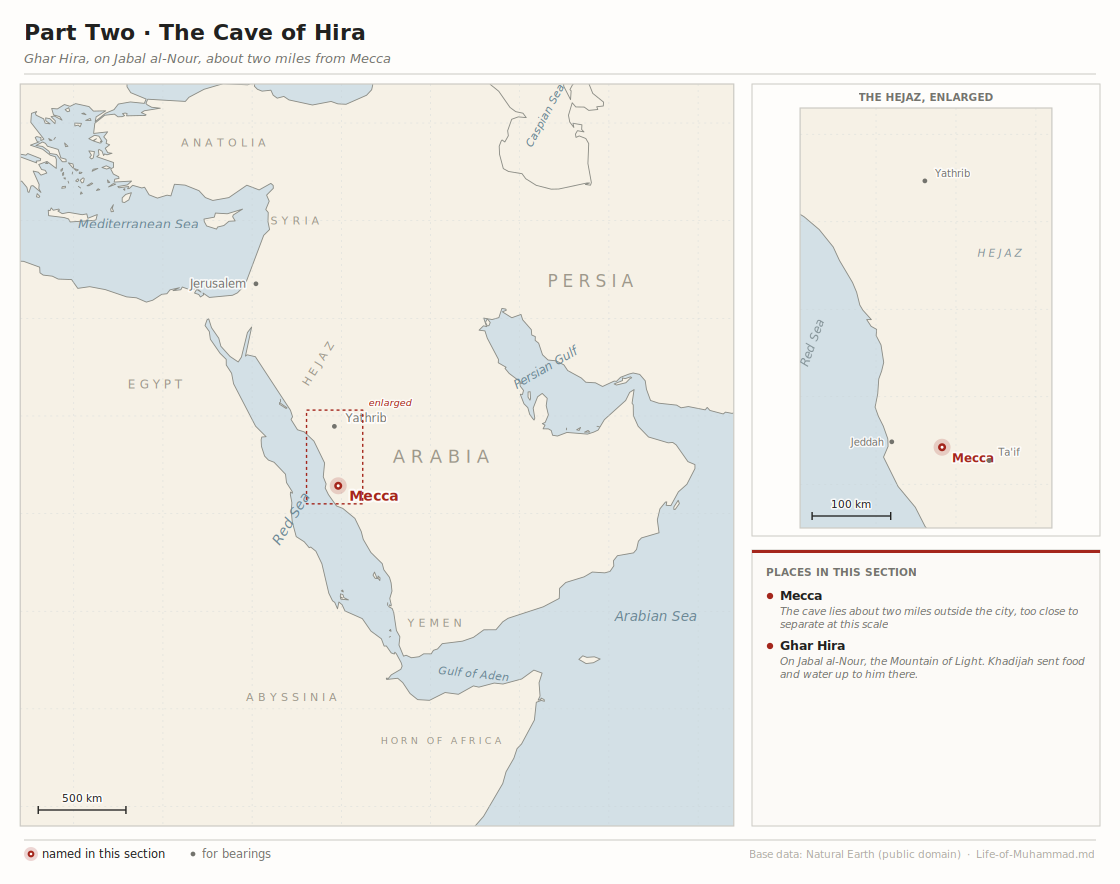
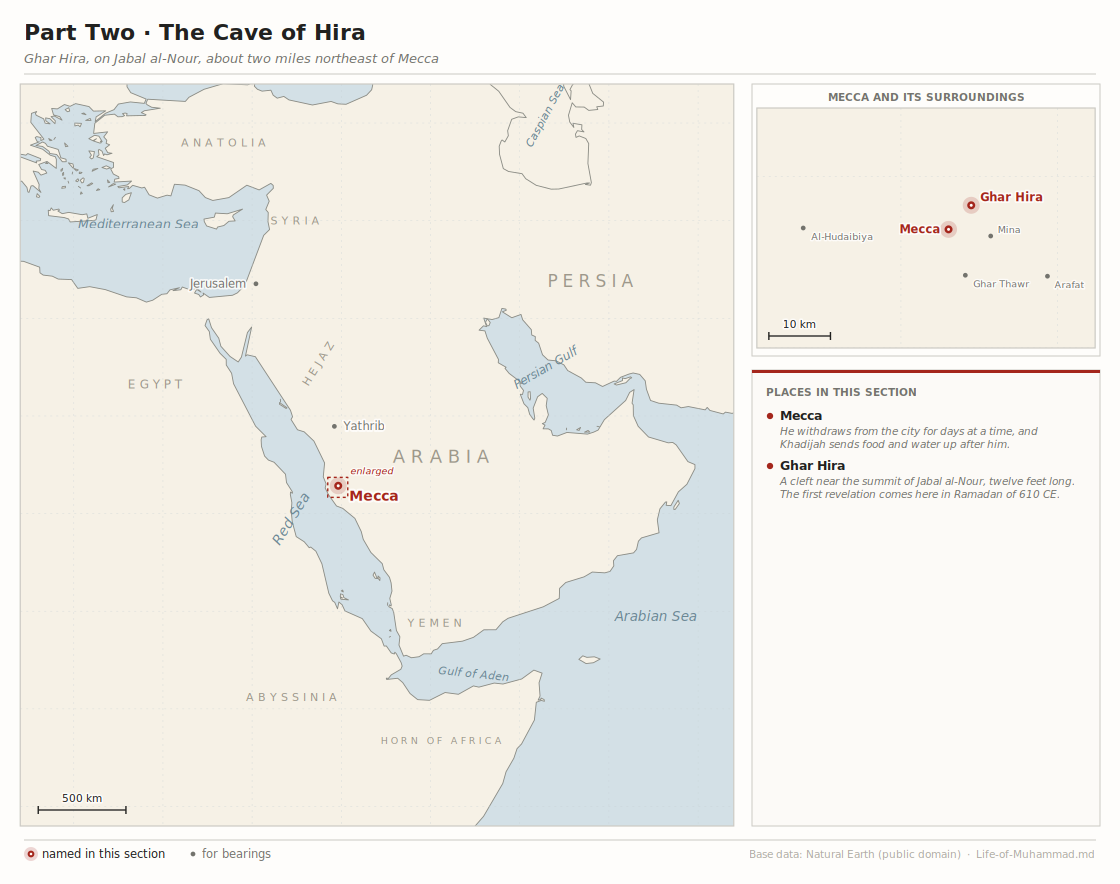
Add Hudaibiya photographs and close-scale maps for the caves and the treaty
Photographs: the ruins of the old Hudaibiya mosque, with the modern one
behind it, and the working mosque at al-Shumaisi with pilgrims in ihram
outside — the place where a pilgrimage was stopped is now a miqat where
one begins. Adds a short "The Place" subsection to Part Four section 4.

Maps: the enlarged panel on three maps is now Mecca and its surroundings
at ten miles to the inch rather than the whole Hejaz, which is the scale
at which these sites actually separate from the city. p2-hira and
p4-hudaibiya are re-rendered; p3-thawr is new, so the Cave of Thawr has
its own map instead of borrowing the part-level Hijrah one. The Thawr map
shows the point the text makes — the first leg runs south while Medina is
north. Refines three coordinates for the closer scale, including
al-Hudaibiya, which was about six kilometres out.

Updates The Map and The Photographs to match, and adds two rows to
images/CREDITS.md.

diff --git a/Life-of-Muhammad.md b/Life-of-Muhammad.md
@@ -195,9 +195,14 @@ Three things are worth knowing before reading them.
 beside each map lists the red places with a line on why the section names them.
 
 **Some places are too close together to separate.** Mecca and the Cave of Hira are two miles
-apart, Medina and Uhud three, Mecca and Arafat thirteen. At the scale of a page these fall on
-the same dot, so a second panel enlarges the Hejaz where that helps, and the rest is handled in
-the card rather than by pretending the map can show it.
+apart, Medina and Uhud three, Mecca and Arafat thirteen. At the scale of a page these fall on the
+same dot, so a second panel enlarges the ground. Most maps enlarge **the Hejaz**. Three of them —
+[the Cave of Hira](#1-the-cave-of-hira-and-the-first-revelation-610-ce),
+[the Cave of Thawr](#3-the-cave-of-thawr) and
+[the Treaty of Hudaibiya](#4-the-treaty-of-hudaibiya-628-ce) — enlarge **Mecca and its
+surroundings** instead, at ten miles to the inch, because at that scale the two caves and the
+treaty ground do separate from the city and from each other. What still will not separate is
+handled in the card rather than by pretending the map can show it.
 
 **The routes are schematic.** A dashed arrow records that a journey happened between two places,
 not the road it took. The Meccan caravan road to Syria, the crossing to Abyssinia and the route
@@ -212,8 +217,9 @@ shoreline. The maps were drawn for this document; nothing on them is a historica
 
 # The Photographs
 
-Five places in this document still exist and can be photographed: the two caves, the two mosques,
-and the burial chamber. Photographs of them are placed in the sections that describe them.
+Six places in this document still exist and can be photographed: the two caves, the two mosques,
+the burial chamber, and the ground at al-Hudaibiya. Photographs of them are placed in the sections
+that describe them.
 
 **The caves are the only originals.** Ghar Hira and Ghar Thawr are natural clefts in granite, and
 the rock in the pictures is the rock the sources describe. Everything around them is new. Both
@@ -230,6 +236,10 @@ it appears beside the modern view so the difference is visible.
 **The burial chamber cannot be photographed inside.** The grave is closed, and the pictures show
 the Green Dome over it, built in 1818 and painted green in 1837 — twelve centuries after the
 burial.
+
+**Al-Hudaibiya is a site rather than a building.** The treaty was signed at a well in open ground.
+What stands there now is a ruined later mosque built to mark the spot, and a working mosque beside
+it; the pictures show both, and neither is contemporary with the event.
 
 Sources and licenses for every photograph are in [images/CREDITS.md](images/CREDITS.md).
 
@@ -401,7 +411,7 @@ For what the building has looked like since, see
 
 ## 1. The Cave of Hira and the First Revelation, 610 CE
 
-![Regional map: Mecca highlighted, with a note that Ghar Hira lies about two miles outside the city](images/maps/p2-hira.png)
+![Map: Mecca highlighted in the Hejaz, with an enlarged panel of Mecca and its surroundings showing Ghar Hira on Jabal al-Nour about two miles northeast of the city](images/maps/p2-hira.png)
 
 Approaching forty, troubled by the idolatry and the treatment of the weak in Meccan society, he
 began withdrawing for long stretches to **Ghar Hira**, a small cave on Jabal al-Nour, the
@@ -814,6 +824,8 @@ We have put before them a barrier and behind them a barrier and covered them so 
 
 ## 3. The Cave of Thawr
 
+![Map: Medina and Mecca highlighted, with an enlarged panel of Mecca and its surroundings showing Ghar Thawr about four miles south of the city, in the opposite direction to Medina](images/maps/p3-thawr.png)
+
 He met **Abu Bakr**, and the two went south, the wrong way for Medina, to break the trail. They
 hid in **Ghar Thawr**, the Cave of Thawr.
 
@@ -963,7 +975,7 @@ are charted and dated in [Appendix: The Campaigns](#appendix-the-campaigns-624-6
 
 ## 4. The Treaty of Hudaibiya, 628 CE
 
-![Regional map: the route from Medina toward Mecca, stopped at al-Hudaibiya just outside the city](images/maps/p4-hudaibiya.png)
+![Map: the march from Medina stopped short of Mecca, with an enlarged panel of Mecca and its surroundings showing al-Hudaibiya about fifteen miles west of the city, beyond At-Tan'im](images/maps/p4-hudaibiya.png)
 
 Six years after the Hijrah, the Prophet dreamed that he and his companions were performing
 *umrah* at the Kaaba. In March 628 CE he set out for Mecca with 1,400 unarmed men in pilgrim
@@ -986,6 +998,26 @@ The reason became visible within two years. Peace meant that Muslims and pagans 
 trade, and argue about religion without a state of war between them. More people accepted Islam
 in the two years after Hudaibiya than in the previous fifteen, which is why the conquest of Mecca
 in 630 CE could be carried out almost without fighting.
+
+### The Place
+
+Al-Hudaibiya was a well and a stretch of valley on the old road to Jeddah, about fifteen miles
+west of Mecca, on the edge of the sacred territory — the sources put part of the ground inside the
+boundary and part outside it, which is why the place matters in law as well as in the story. The
+modern name for it is **al-Shumaisi**.
+
+![The ruins of the old Hudaibiya mosque: rubble-stone walls a few feet thick with one surviving arch, visitors standing among them, and the minaret of the modern mosque behind](images/sites/09-hudaibiya-old-mosque-ruin.jpg)
+
+> What is left of the old mosque built on the site, standing in the open beside the new one. The
+> walls are undressed local stone laid in mortar. The dark writing over them is visitors' names.
+> Nothing here dates from 628 CE; the ruin is of a later mosque marking the spot.
+
+![The modern Hudaibiya mosque at dusk: a low white building with a single tall minaret, pilgrims in ihram gathered outside, cars and a shop at the roadside](images/sites/10-hudaibiya-mosque-today.jpg)
+
+> The mosque that replaced it, and the reason the men outside are in pilgrim dress. The place
+> where a pilgrimage was stopped is now a *miqat*, one of the points at which pilgrims already
+> inside the sanctuary boundary enter the state of *ihram* to begin one. The road behind is the
+> old Jeddah road.
 
 > **Reference:** Quran, Surah al-Fath (48:1); Sahih al-Bukhari, Book 54, Hadith 19.
 

diff --git a/images/CREDITS.md b/images/CREDITS.md
@@ -7,15 +7,16 @@ the Artist and Source lines given here.
 
 ## Maps
 
-`images/maps/*.png` — drawn for this document, sixteen of them, one per section that names a
-place. Coastlines are from **Natural Earth**
+`images/maps/*.png` — drawn for this document, seventeen of them, one per section that names a
+place. Most enlarge the Hejaz in a second panel; the maps for the Cave of Hira, the Cave of Thawr
+and the Treaty of Hudaibiya enlarge Mecca and its surroundings instead. Coastlines are from **Natural Earth**
 (`ne_50m_land`), which is in the public domain and free of any use restriction. The
 drawing code and the place data are original to this repository.
 
 ## The Places
 
 `images/sites/`, in the order they appear in
-[Life-of-Muhammad.md](Life-of-Muhammad.md). All eight are from Wikimedia Commons.
+[Life-of-Muhammad.md](Life-of-Muhammad.md). All ten are from Wikimedia Commons.
 
 | # | Subject | Date | License | Artist or holder | Source |
 | :-- | :--- | :--- | :--- | :--- | :--- |
@@ -27,6 +28,8 @@ drawing code and the place data are original to this repository.
 | 06 | The Prophet's Mosque in 1908 | 1908 | Public domain | Ibrahim Basha | [Commons](https://commons.wikimedia.org/wiki/File:Old_Al-Masjid_Al-Nabawi_1908.jpg) |
 | 07 | The Prophet's Mosque today, from above | 2018 | CC0 | Konevi | [Commons](https://commons.wikimedia.org/wiki/File:Al-Masjid_An-Nabawi_(Bird%27s_Eye_View).jpg) |
 | 08 | The Green Dome | 2024 | CC0 | Bjelica | [Commons](https://commons.wikimedia.org/wiki/File:Green_Dome_in_2024.jpg) |
+| 09 | The ruins of the old Hudaibiya mosque | 2015 | CC BY-SA 3.0 | GusJuned | [Commons](https://commons.wikimedia.org/wiki/File:Old_Hubaidiyah_Mosque_-_panoramio_(1).jpg) |
+| 10 | The Hudaibiya mosque today, at al-Shumaisi | 2015 | CC BY-SA 3.0 | GusJuned | [Commons](https://commons.wikimedia.org/wiki/File:Hudaibiyah_Mosque_-_panoramio.jpg) |
 
 Image 04 is tagged "before 1900" on Commons, but a motor vehicle is parked at the lower edge of
 the frame, so the photograph is almost certainly 20th-century and the public-domain tag may not
